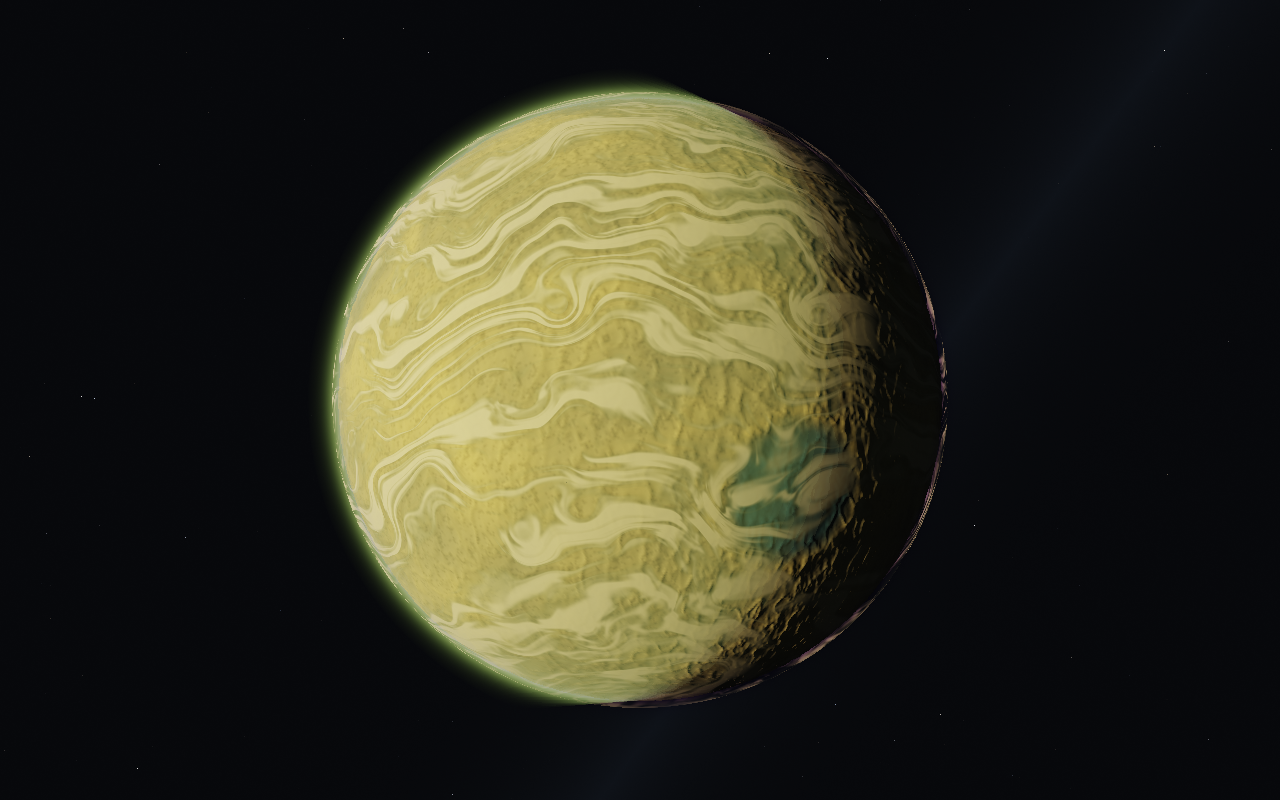
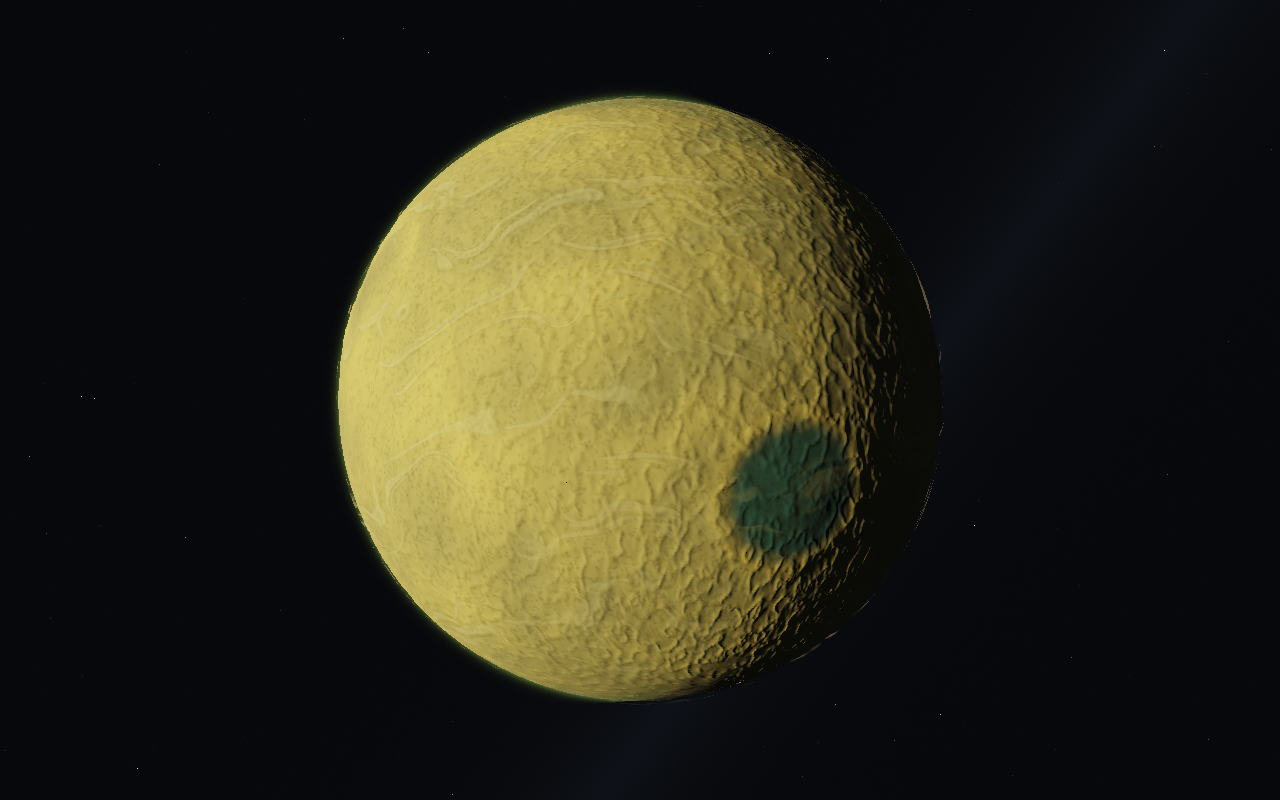
Thin Miasma's toxic atmosphere and add Claude's alien flora

diff --git a/src/miasma-flora.js b/src/miasma-flora.js
@@ -1,0 +1,98 @@
+import * as THREE from 'three';
+import { GLTFLoader } from 'three/addons/loaders/GLTFLoader.js';
+import { MIASMA_POSITION, MIASMA_RADIUS, miasmaSurface } from './miasma-world.js';
+import { scatterMinerals } from './mineral-fragments.js';
+
+const CENTER=new THREE.Vector3(...MIASMA_POSITION),UP=new THREE.Vector3(0,1,0);
+export const FLORA_SPECIES=Object.freeze(['alien-tree-bulb','alien-tree-spire','giant-mushroom-cluster','puffball-plant']);
+const HEIGHTS=[12,18,4,.9],RANGES=[140,140,105,48],CAPACITIES=[128,96,192,96];
+const hash=(x,y,s)=>{let h=Math.imul(x,374761393)^Math.imul(y,668265263)^s;h=Math.imul(h^(h>>>13),1274126177);return ((h^(h>>>16))>>>0)/4294967295;};
+/** Canonical, stable colonies: large silhouettes among mineral-rich ground, with
+ * smaller fungi and pods between them. Ship clearance includes the model canopy. */
+export function floraCandidates(up,shipLocal=null){
+  const candidates=[];
+  scatterMinerals(up,(d,col,row,a,b)=>{
+    const surface=miasmaSurface(...d.toArray()),colony=.5+.5*Math.sin(d.x*MIASMA_RADIUS/85+Math.sin(d.z*MIASMA_RADIUS/110))*Math.sin(d.y*MIASMA_RADIUS/97);
+    if(hash(col,row,6101)>.28+colony*.6)return;
+    const pick=hash(col,row,7311),species=pick<.18?0:pick<.30?1:pick<.64?2:3;
+    const size=(species<2?.55:.75)+hash(col,row,2713)*.5,point=d.clone().multiplyScalar(MIASMA_RADIUS+surface.height);
+    if(d.distanceTo(up)*MIASMA_RADIUS>RANGES[species]+8)return;
+    if(shipLocal&&point.distanceTo(shipLocal)<22+(species<2?6:2)*size)return;
+    const east=new THREE.Vector3().crossVectors(Math.abs(d.y)<.9?UP:new THREE.Vector3(1,0,0),d).normalize(),north=new THREE.Vector3().crossVectors(d,east);
+    const height=(axis,sign)=>miasmaSurface(...d.clone().addScaledVector(axis,sign/MIASMA_RADIUS).normalize().toArray()).height;
+    const dx=(height(east,1)-height(east,-1))*.5,dy=(height(north,1)-height(north,-1))*.5;
+    if(Math.hypot(dx,dy)>(species<2?.18:.4))return;
+    const normal=d.clone().addScaledVector(east,-dx).addScaledVector(north,-dy).normalize();
+    candidates.push({id:`${col}/${row}`,species,size,point:point.toArray(),normal:normal.toArray(),yaw:b*Math.PI*2,phase:a*100});
+  },{spacing:11,range:148,density:.68,seed:9137});
+  return candidates;
+}
+function animateMaterial(material,eye,time,height,range,depth=false){
+  material.onBeforeCompile=shader=>{
+    Object.assign(shader.uniforms,{floraEye:eye,floraTime:time});
+    shader.vertexShader=shader.vertexShader.replace('#include <common>',`#include <common>
+      uniform vec3 floraEye;uniform float floraTime;attribute float floraPhase;varying float floraRange;`)
+      .replace('#include <begin_vertex>',`#include <begin_vertex>
+        floraRange=length(instanceMatrix[3].xyz-floraEye);
+        float bend=pow(clamp(position.y/${height.toFixed(1)},0.0,1.0),2.0);
+        transformed.x+=sin(floraTime*.85+floraPhase+position.y*.35)*bend*${(height*.012).toFixed(4)};
+        transformed.z+=cos(floraTime*.63+floraPhase)*bend*${(height*.008).toFixed(4)};`);
+    shader.fragmentShader=shader.fragmentShader.replace('#include <common>','#include <common>\nvarying float floraRange;')
+      .replace('#include <alphatest_fragment>',`#include <alphatest_fragment>
+        float coverage=1.0-smoothstep(${(range*.76).toFixed(1)},${range.toFixed(1)},floraRange);
+        if(coverage<=fract(52.9829189*fract(dot(gl_FragCoord.xy,vec2(.06711056,.00583715)))))discard;`);
+    if(!depth)shader.fragmentShader=shader.fragmentShader.replace('#include <emissivemap_fragment>',`#include <emissivemap_fragment>
+      // Preserve the authored textures; only their mint-green details luminesce.
+      float mint=smoothstep(.015,.12,diffuseColor.g-max(diffuseColor.r*.94,diffuseColor.b*.94));
+      totalEmissiveRadiance+=diffuseColor.rgb*mint*.32;`);
+  };
+  material.customProgramCacheKey=()=>`miasma-flora-${height}-${range}-${depth}-v1`;
+}
+export class MiasmaFlora {
+  constructor(parent){
+    this.group=new THREE.Group();this.group.name='Miasma alien flora';this.group.visible=false;parent.add(this.group);
+    this.eye={value:new THREE.Vector3()};this.time={value:0};this.anchor=new THREE.Vector3();this.last=new THREE.Vector3(Infinity,0,0);
+    this.assets=[];this.loading=false;this.loaded=false;this.errors=[];this.counts=[0,0,0,0];this.disposed=false;this.clearing=null;
+  }
+  async load(){
+    if(this.loading||this.disposed)return;this.loading=true;const loader=new GLTFLoader();
+    await Promise.all(FLORA_SPECIES.map(async(name,species)=>{
+      try{
+        const {scene}=await loader.loadAsync(`/models/props/${name}.glb`);scene.updateMatrixWorld(true);
+        scene.traverse(source=>{if(!source.isMesh)return;
+          const geometry=source.geometry.clone().applyMatrix4(source.matrixWorld),material=source.material.clone();
+          geometry.setAttribute('floraPhase',new THREE.InstancedBufferAttribute(new Float32Array(CAPACITIES[species]),1));
+          material.envMapIntensity=.08;material.roughness=Math.max(.6,material.roughness);animateMaterial(material,this.eye,this.time,HEIGHTS[species],RANGES[species]);
+          const depth=new THREE.MeshDepthMaterial({depthPacking:THREE.RGBADepthPacking,side:material.side});animateMaterial(depth,this.eye,this.time,HEIGHTS[species],RANGES[species],true);
+          const mesh=new THREE.InstancedMesh(geometry,material,CAPACITIES[species]);mesh.count=0;mesh.frustumCulled=false;mesh.castShadow=mesh.receiveShadow=true;mesh.customDepthMaterial=depth;
+          mesh.instanceMatrix.setUsage(THREE.DynamicDrawUsage);mesh.name=name;this.assets.push({species,mesh,depth});
+          if(!this.disposed)this.group.add(mesh);
+          source.geometry.dispose();source.material.dispose();
+        });
+      }catch(error){this.errors.push(`${name}: ${String(error)}`);console.warn(`Miasma flora unavailable: ${name}`,error);}
+    }));
+    this.loaded=true;this.last.set(Infinity,0,0);if(this.disposed)this.release();
+  }
+  update(position,origin,altitude,elapsed,shipPosition){
+    this.time.value=elapsed;this.group.visible=altitude>=0&&altitude<145;
+    if(altitude<2500&&!this.loading)this.load();
+    if(!this.group.visible||!this.loaded)return;
+    const local=position.clone().sub(CENTER),up=local.clone().normalize(),clearing=shipPosition?.toArray().join('/')??null;
+    if(local.distanceToSquared(this.last)>36||clearing!==this.clearing){
+      this.last.copy(local);this.clearing=clearing;this.anchor.copy(up).multiplyScalar(MIASMA_RADIUS+miasmaSurface(...up.toArray()).height);this.counts.fill(0);
+      const q=new THREE.Quaternion(),yaw=new THREE.Quaternion(),scale=new THREE.Vector3(),matrix=new THREE.Matrix4();
+      for(const plant of floraCandidates(up,shipPosition?.clone().sub(CENTER))){
+        const i=this.counts[plant.species];if(i>=CAPACITIES[plant.species])continue;
+        q.setFromUnitVectors(UP,new THREE.Vector3(...plant.normal));q.multiply(yaw.setFromAxisAngle(UP,plant.yaw));scale.setScalar(plant.size);
+        const point=new THREE.Vector3(...plant.point).addScaledVector(new THREE.Vector3(...plant.normal),-.06).sub(this.anchor);matrix.compose(point,q,scale);
+        for(const asset of this.assets)if(asset.species===plant.species){asset.mesh.setMatrixAt(i,matrix);asset.mesh.geometry.attributes.floraPhase.setX(i,plant.phase);}
+        this.counts[plant.species]++;
+      }
+      for(const {species,mesh} of this.assets){mesh.count=this.counts[species];mesh.instanceMatrix.needsUpdate=true;mesh.geometry.attributes.floraPhase.needsUpdate=true;}
+    }
+    this.eye.value.copy(local).sub(this.anchor);this.group.position.copy(this.anchor).add(CENTER).sub(origin);
+  }
+  get state(){return {loaded:this.loaded,visible:this.group.visible,counts:[...this.counts],errors:[...this.errors]};}
+  release(){const textures=new Set();for(const {mesh,depth} of this.assets){for(const value of Object.values(mesh.material))if(value?.isTexture)textures.add(value);mesh.geometry.dispose();mesh.material.dispose();depth.dispose();mesh.dispose();}for(const texture of textures)texture.dispose();this.assets=[];this.group.clear();}
+  dispose(){this.disposed=true;this.release();this.group.removeFromParent();}
+}

diff --git a/src/miasma.js b/src/miasma.js
@@ -1,3 +1,4 @@
+import { MiasmaFlora } from './miasma-flora.js';
 import { MineralFragments } from './mineral-fragments.js';
 import * as THREE from 'three';
 import { PyreTerrain } from './pyre-terrain.js';
@@ -16,7 +17,7 @@ const weather = `
     d.xz=mat2(cos(angle),-sin(angle),sin(angle),cos(angle))*d.xz;
     vec3 p=d*9.0+vec3(mf(d*5.0),mf(d*5.0+19.0),mf(d*5.0-7.0))*3.0;
     float belts=sin(d.y*24.0+mf(d*8.0)*8.0)*.075;
-    return smoothstep(.38,.67,mf(p)+belts);
+    return smoothstep(.53,.74,mf(p)+belts);
   }
 `;
 const mapTexture=(pixels,width,height,space=THREE.NoColorSpace)=>{
@@ -27,7 +28,7 @@ export class Miasma {
   constructor(scene) {
     this.scene=scene;this.worldPosition=new THREE.Vector3(...MIASMA_POSITION);
     this.group=new THREE.Group();this.group.name='Miasma';scene.add(this.group);
-    this.fragments=new MineralFragments(this.group);
+    this.fragments=new MineralFragments(this.group);this.flora=new MiasmaFlora(this.group);
     this.time={value:0};this.mapsReady={value:0};
     this.color={value:mapTexture(new Uint8Array([140,140,50,255]),1,1,THREE.SRGBColorSpace)};
     this.normal={value:mapTexture(new Uint8Array([128,128,255,255]),1,1)};
@@ -50,7 +51,7 @@ export class Miasma {
           float detail=1.0-smoothstep(100.0,2400.0,range);
           float grains=mn(mPoint*3.0),plates=mf(mPoint*.14),cracks=1.0-smoothstep(.015,.07,abs(plates-.48));
           diffuseColor.rgb*=mix(1.0,.73+plates*.45+grains*.22-cracks*.3,detail);
-          diffuseColor.rgb*=1.0-mCloud(d,mTime)*.18;
+          diffuseColor.rgb*=1.0-mCloud(d,mTime)*.07;
           mRelief=(grains*.02+plates*.16-cracks*.04)*detail;`)
         .replace('#include <normal_fragment_maps>',`#include <normal_fragment_maps>
           vec3 q0=dFdx(-vViewPosition),q1=dFdy(-vViewPosition),r1=cross(q1,normal),r2=cross(normal,q0);
@@ -71,18 +72,19 @@ export class Miasma {
         .replace('#include <color_fragment>',`#include <color_fragment>
           float cover=mCloud(normalize(mDirection),mTime);
           diffuseColor.rgb=mix(vec3(.12,.19,.055),vec3(.72,.68,.32),cover);
-          diffuseColor.a=cover*.78;if(diffuseColor.a<.025)discard;`);
+          diffuseColor.a=cover*.22;if(diffuseColor.a<.025)discard;`);
     };
     this.cloudMaterial.customProgramCacheKey=()=> 'miasma-weather-v1';
     this.clouds=new THREE.Mesh(new THREE.SphereGeometry(1,128,80),this.cloudMaterial);
-    this.clouds.name='Miasma sulphur aerosol clouds';this.clouds.scale.setScalar(MIASMA_RADIUS+8500);this.group.add(this.clouds);
+    this.clouds.name='Miasma sulphur aerosol clouds';this.clouds.scale.setScalar(MIASMA_RADIUS+5200);this.group.add(this.clouds);
   }
   update(position,origin,elapsed,shipPosition=null) {
     this.distance=position.distanceTo(this.worldPosition);this.group.visible=this.distance<3e8;this.time.value=elapsed;
     if(!this.group.visible)return;
     this.terrain.update(position,origin);this.fragments.update(position,origin,this.terrain.altitude,shipPosition);this.clouds.position.copy(this.worldPosition).sub(origin);
+    this.flora.update(position,origin,this.terrain.altitude,elapsed,shipPosition);
   }
   get ready(){return this.terrain.ready&&this.mapsReady.value===1;}
-  get state(){return {position:this.worldPosition.toArray(),radius:MIASMA_RADIUS,distance:this.distance,visible:this.group.visible,ready:this.ready,mapsReady:this.mapsReady.value===1,patches:this.terrain.visibleCount,lod:this.terrain.maxLevel,pending:this.terrain.pending,morphing:this.terrain.morphing,error:this.terrain.error,fragments:this.fragments.count,surfaceAltitude:this.terrain.altitude,weatherTime:this.time.value};}
-  dispose(){this.fragments.dispose();this.terrain.dispose();this.color.value.dispose();this.normal.value.dispose();this.clouds.geometry.dispose();this.cloudMaterial.dispose();this.material.dispose();this.scene.remove(this.group);}
+  get state(){return {position:this.worldPosition.toArray(),radius:MIASMA_RADIUS,distance:this.distance,visible:this.group.visible,ready:this.ready,mapsReady:this.mapsReady.value===1,patches:this.terrain.visibleCount,lod:this.terrain.maxLevel,pending:this.terrain.pending,morphing:this.terrain.morphing,error:this.terrain.error,fragments:this.fragments.count,flora:this.flora.state,surfaceAltitude:this.terrain.altitude,weatherTime:this.time.value};}
+  dispose(){this.flora.dispose();this.fragments.dispose();this.terrain.dispose();this.color.value.dispose();this.normal.value.dispose();this.clouds.geometry.dispose();this.cloudMaterial.dispose();this.material.dispose();this.scene.remove(this.group);}
 }

diff --git a/scripts/miasma-flora.spec.js b/scripts/miasma-flora.spec.js
@@ -1,0 +1,33 @@
+import {test,expect} from '@playwright/test';
+import {mkdir,writeFile} from 'node:fs/promises';
+test('thin toxic atmosphere and Claude flora render with stable placement and wind',async({page,browser})=>{
+ const dir='/tmp/star-agent-miasma-flora',errors=[],states=[];await mkdir(dir,{recursive:true});
+ page.on('pageerror',e=>{errors.push(e.message);console.log(e.message);});page.on('console',m=>{if(m.type()==='error'){errors.push(m.text());console.log(m.text().slice(0,2000));}});
+ await page.goto('/?intro=0&debug');await page.waitForFunction(()=>window.starAgent?.state.ready);await page.keyboard.press('Tab');
+ await page.evaluate(()=>{const s=window.starAgent;s.navigation.transitMiasma();s.navigation.enabled=false;s.setRenderScale(.5);});
+ await page.waitForFunction(()=>window.starAgent.state.miasma.ready);
+ async function shot(name){await page.evaluate(async()=>{window.starAgent.setRenderScale(1);for(let i=0;i<4;i++)await new Promise(r=>requestAnimationFrame(r));});await page.screenshot({path:`${dir}/${name}.png`});states.push({name,state:await page.evaluate(()=>window.starAgent.state)});console.log(`Captured ${name}`);expect(errors).toEqual([]);}
+ await shot('thin-orbit');
+ for(const altitude of [5000,5]){
+  await page.evaluate(alt=>{
+   const s=window.starAgent,n=s.navigation,sun=n.sunDirection;
+   const site=s.miasmaSites.map(site=>({...site,score:site.direction.reduce((v,x,i)=>v+x*sun.toArray()[i],0)})).sort((a,b)=>b.score-a.score)[0];
+   n.transitMiasma(alt,site.direction);n.enabled=false;s.setRenderScale(.5);
+   const up=n.normal,east=up.clone().set(0,1,0).cross(up).normalize();
+   n.orientToward(n.position.clone().addScaledVector(east,alt<10?50:alt*.7).addScaledVector(up,alt<10?-2:-alt),up);
+  },altitude);
+  await page.waitForFunction(alt=>{const m=window.starAgent.state.miasma;return m.ready&&Math.abs(m.surfaceAltitude-alt)<.1&&(alt>100||m.flora.loaded);},altitude,{timeout:240000});
+  await shot(altitude===5?'alien-grove':'thin-descent');
+ }
+ const flora=states.at(-1).state.miasma.flora;expect(flora.errors).toEqual([]);expect(flora.counts.filter(c=>c>0).length).toBe(4);expect(flora.counts.reduce((a,b)=>a+b,0)).toBeGreaterThan(15);
+ await page.waitForTimeout(3000);await shot('grove-wind');
+ await page.keyboard.press('Tab');await expect(page.locator('#toxic-warning')).toBeVisible();await shot('grove-hud');
+ // Landing must clear authored trees away from the physical ramp/cabin.
+ await page.evaluate(()=>{const s=window.starAgent;s.navigation.enabled=true;s.setRenderScale(.4);});await page.keyboard.press('l');
+ await page.waitForFunction(()=>window.starAgent.state.mode==='landed',null,{timeout:90000});expect(await page.evaluate(()=>window.starAgent.state.body)).toBe('miasma');
+ await page.waitForFunction(()=>window.starAgent.state.miasma.ready);await shot('landed-grove');
+ await page.evaluate(()=>{const s=window.starAgent;s.navigation.transitPyre();s.navigation.enabled=false;s.setRenderScale(.5);});
+ await page.waitForFunction(()=>window.starAgent.state.pyre.ready);await page.keyboard.press('Tab');await shot('pyre-companion');
+ const backend=await page.evaluate(()=>{const gl=document.querySelector('canvas').getContext('webgl2'),e=gl.getExtension('WEBGL_debug_renderer_info');return gl.getParameter(e.UNMASKED_RENDERER_WEBGL);});
+ await writeFile(`${dir}/environment.json`,JSON.stringify({browser:browser.version(),backend,viewport:[1280,800],errors,states},null,2));expect(errors).toEqual([]);
+});

diff --git a/src/mineral-fragments.js b/src/mineral-fragments.js
@@ -4,8 +4,8 @@ const CENTER=new THREE.Vector3(...MIASMA_POSITION),UP=new THREE.Vector3(0,1,0),T
 const hash=(x,y,salt)=>{let h=Math.imul(x,374761393)^Math.imul(y,668265263)^salt;h=Math.imul(h^(h>>>13),1274126177);return ((h^(h>>>16))>>>0)/4294967295;};
 /** Stable wrapped latitude rows, adapted from the Selene surface-stones work.
  * Candidate placement is independent of camera heading and remains stable on return. */
-export function scatterMinerals(center,visit){
-  const spacing=1.65,range=78,step=spacing/MIASMA_RADIUS,angular=(range+spacing*2)/MIASMA_RADIUS;
+export function scatterMinerals(center,visit,{spacing=1.65,range=78,density=.43,seed=713}={}){
+  const step=spacing/MIASMA_RADIUS,angular=(range+spacing*2)/MIASMA_RADIUS;
   const lat0=Math.asin(THREE.MathUtils.clamp(center.y,-1,1)),lon0=Math.atan2(center.x,center.z);
   for(let row=Math.floor((lat0-angular)/step);row<=Math.ceil((lat0+angular)/step);row++){
     const lat=(row+.5)*step;if(Math.abs(lat)>=Math.PI/2)continue;
@@ -13,9 +13,9 @@ export function scatterMinerals(center,visit){
     const extent=den<1e-13?Math.PI:Math.acos(THREE.MathUtils.clamp((Math.cos(angular)-Math.sin(lat0)*Math.sin(lat))/den,-1,1));
     const reach=Math.ceil(extent/delta)+2,origin=Math.floor((lon0+Math.PI)/delta),count=Math.min(columns,reach*2+1);
     for(let i=0;i<count;i++){
-      const col=((origin-reach+i)%columns+columns)%columns,a=hash(col,row,713),b=hash(col,row,1717);
-      if(a>.43)continue;
-      const lat=(row+.15+a/.43*.7)*step,lon=(col+.15+b*.7)*delta-Math.PI;if(Math.abs(lat)>=Math.PI/2)continue;
+      const col=((origin-reach+i)%columns+columns)%columns,a=hash(col,row,seed),b=hash(col,row,seed+1004);
+      if(a>density)continue;
+      const lat=(row+.15+a/density*.7)*step,lon=(col+.15+b*.7)*delta-Math.PI;if(Math.abs(lat)>=Math.PI/2)continue;
       const d=new THREE.Vector3(Math.cos(lat)*Math.sin(lon),Math.sin(lat),Math.cos(lat)*Math.cos(lon));
       if(d.distanceTo(center)*MIASMA_RADIUS>range)continue;visit(d,col,row,a,b);
     }

diff --git a/tests/miasma.test.js b/tests/miasma.test.js
@@ -72,3 +72,22 @@ test('mineral fragments wrap the seam and remain deterministic near both poles',
   const a=collect();assert.ok(a.length>500&&a.length<5000);assert.equal(new Set(a).size,a.length);assert.deepEqual(a,collect());
  }
 });
+
+test('alien flora follows the canonical floor and leaves the landing area clear',async()=>{
+ const {floraCandidates}=await import('../src/miasma-flora.js');const seen=new Set();
+ for(const site of MIASMA_SITES){
+  const up=new Vector3(...site.direction),plants=floraCandidates(up);assert.deepEqual(plants,floraCandidates(up));assert.ok(plants.length>5);
+  for(const plant of plants)seen.add(plant.species);
+  for(const p of plants){const point=new Vector3(...p.point),d=point.clone().normalize();assert.ok(Math.abs(point.length()-MIASMA_RADIUS-miasmaSurface(...d.toArray()).height)<.00001);}
+  const ship=up.clone().multiplyScalar(MIASMA_RADIUS+miasmaSurface(...up.toArray()).height+3.2);
+  for(const p of floraCandidates(up,ship))assert.ok(new Vector3(...p.point).distanceTo(ship)>22);
+ }
+ assert.equal(seen.size,4);
+});
+
+test('Miasma thin air has low surface density and vanishes smoothly at its upper boundary',async()=>{
+ const {MIASMA_ATMOSPHERE:air}=await import('../src/miasma-world.js');const {environmentAt}=await import('../src/flight-model.js');
+ assert.ok(air.seaLevelDensity<.1);assert.ok(air.height<=20000);
+ const sample=alt=>environmentAt(new Vector3(0,MIASMA_RADIUS+alt,0),MIASMA_RADIUS,air,2.1);
+ assert.equal(sample(air.height).density,0);assert.equal(sample(air.height).regime,'SPACE');assert.ok(sample(air.height-1).density<1e-9);assert.ok(sample(0).density>sample(5000).density);
+});

diff --git a/src/miasma-world.js b/src/miasma-world.js
@@ -18,8 +18,8 @@ export const MIASMA_POSITION = Object.freeze(new Vector3(...PYRE_POSITION)
   .addScaledVector(north, MIASMA_ORBIT_RADIUS * .25)
   .addScaledVector(towardAeon, -MIASMA_ORBIT_RADIUS * Math.sqrt(1 - .58 ** 2 - .25 ** 2)).toArray());
 export const MIASMA_ATMOSPHERE = Object.freeze({
-  height: 32_000, planeHeight: 14_000, seaLevelDensity: .42, scaleHeight: 5200, mieScaleHeight: 3600,
-  betaR: Object.freeze([9e-6, 13e-6, 4e-6]), betaM: Object.freeze([19e-6, 24e-6, 7e-6]), g: .64, gain: 9,
+  height: 18_000, planeHeight: 6500, seaLevelDensity: .065, scaleHeight: 2800, mieScaleHeight: 1400,
+  betaR: Object.freeze([3.0e-6, 4.2e-6, 1.2e-6]), betaM: Object.freeze([8e-6, 10e-6, 2.8e-6]), g: .68, gain: 8,
 });
 export const MIASMA_LIGHTING = Object.freeze({ sky: 0xbfc883, ground: 0x373c20, ambientNight: .018, ambientDay: .2, environment: .04 });
 export const MIASMA_RESOURCE_IDS = Object.freeze(['sulphur', 'silicate', 'copper']);

diff --git a/scripts/miasma-flora.config.js b/scripts/miasma-flora.config.js
@@ -1,0 +1,3 @@
+import base from './miasma.config.js';
+const port=53763;
+export default {...base,testMatch:'miasma-flora.spec.js',outputDir:'/tmp/star-agent-miasma-flora/results',use:{...base.use,baseURL:`http://127.0.0.1:${port}`},webServer:{...base.webServer,command:`npm run build && npm run preview -- --port ${port} --strictPort`,url:`http://127.0.0.1:${port}`}};

diff --git a/docs/miasma.md b/docs/miasma.md
@@ -4,11 +4,13 @@ Pyre now occupies an authored quadrature position: the straight line from Aeon i
 
 The scene freezes this orbital layout for each session. The epoch is the reference of the orbital helper, rather than a changing initial orbital phase. Pyre generator version 3 reflects its volcanoes and lava fields across body longitude to bring Cinder Throne, Nightfire Plain and Furnace Flows onto the Aeon-facing hemisphere. It retains the same canonical geology, resource sampling and terrain refinement.
 
-**Miasma** is a 340 km radius satellite, placed 6,400 km from Pyre's centre on an inclined, frozen orbit. From the Pyre approach it hangs above the dark limb. Select it on the system map (**M**) or use **H → Quick transit → Miasma**. Arrival clearance is 650 km. Its gravity is 2.1 m/s² and its 32 km atmosphere has flight drag and yellow-green aerosol scattering.
+**Miasma** is a 340 km radius satellite, placed 6,400 km from Pyre's centre on an inclined, frozen orbit. From the Pyre approach it hangs above the dark limb. Select it on the system map (**M**) or use **H → Quick transit → Miasma**. Arrival clearance is 650 km. Its gravity is 2.1 m/s² and its thin 18 km atmosphere has low flight drag and a narrow yellow-green aerosol rim. Surface density is 0.065 kg/m³; scattering falls off over 2.8 km (Rayleigh) and 1.4 km (aerosols).
 
 Four named mineral basins cut through sulphur uplands: Vitriol Basin, The Pale Eye, Verdigris Sea and Brimstone Crown. Dark copper-rich deposits, pale rims, ridges, fractures, walking-scale grit and small mineral fragments give the moon a different surface from Pyre. The "seas" are solid mineral deposits. Their surface heights and sulphur/silicate/copper weights drive rendering, collision, landing, walking and the mineral survey.
 
-Animated aerosol bands occupy a cloud shell 8.5 km above the reference sphere. The atmosphere composites from far to near so both worlds can appear in the same view. Rendering retains logarithmic depth; terrain and fragment positions subtract camera/patch origins in CPU doubles before Float32 storage. Workers use the shared Pyre quadtree, canonical surface-map baker and swept terrain contact, with parent fallback, skirts and geometry morphs intact. Fragment scatter is adapted from the earlier Selene surface-stones work and keeps a clear area around a landed ship.
+Sparse animated aerosol wisps occupy a cloud shell 5.2 km above the reference sphere. The atmosphere composites from far to near so both worlds can appear in the same view. Rendering retains logarithmic depth; terrain and fragment positions subtract camera/patch origins in CPU doubles before Float32 storage. Workers use the shared Pyre quadtree, canonical surface-map baker and swept terrain contact, with parent fallback, skirts and geometry morphs intact. Fragment scatter is adapted from the earlier Selene surface-stones work and keeps a clear area around a landed ship.
+
+Claude's existing `alien-tree-bulb`, `alien-tree-spire`, `giant-mushroom-cluster` and `puffball-plant` GLBs now populate mixed surface colonies. These are the local assets listed in `public/models/props/manifest.json`; no remote asset service is used at runtime. Plants load below 2.5 km, use bounded instanced batches, fade over 48–140 m depending on species, sway gently and add subtle luminescence to their mint details. Placement is deterministic on the canonical floor, rejects steep slopes and clears a 22 m area plus canopy radius around a landed ship. Plants are decorative, with no trunk collision or harvesting yet.
 
 Toxic air is identified in the HUD, cockpit and map. Exploration assumes the existing sealed suit: this change does not add suit failures, oxygen consumption or acid damage. Small decorative fragments have no separate collision; the canonical terrain owns the walkable floor. Cloud motion and moon placement are authored visual effects, not atmospheric chemistry or an N-body simulation. No downloads, hosted APIs, dependencies or paid assets were added.
 
@@ -16,9 +18,12 @@ Toxic air is identified in the HUD, cockpit and map. Exploration assumes the exi
 
 - `npm test`: existing world, navigation, Pyre and star checks plus Miasma geography, resource consistency, local vertex precision, swept contact, travel separation and arrival orientation.
 - `npm run test:browser -- -c scripts/miasma.config.js`: actual Chromium rendering from orbit through 5 km, 100 m and 8 m; mineral/toxicity HUD; map selection; continuous Aeon → Pyre → Miasma drive; physical landing, hatch exit, reboarding and launch; Aeon, Selene, Pyre and star visual regression checks.
+- `npm run test:browser -- -c scripts/miasma-flora.config.js`: thinner orbit/descent atmosphere, all four authored species, ground wind, toxic HUD and landing clearance. Flora evidence is in `/tmp/star-agent-miasma-flora`.
 - Artifacts and state reports: `/tmp/star-agent-miasma`. Chromium 151.0.7922.173 / ANGLE Vulkan SwiftShader; full browser/GPU details are recorded in `environment.json`. Screenshots use a 1280×800 viewport at render scale 1; streaming/movement checks use 0.4–0.5. SwiftShader is a rendering correctness check, not a hardware FPS benchmark.
 
 ![Pyre twilight arrival and Miasma](images/miasma/pyre-twilight.png)
 ![Miasma from orbit](images/miasma/miasma-orbit.png)
 ![Mineral fragments and fractured basin floor](images/miasma/miasma-ground.png)
 ![System map](images/miasma/map.png)
+
+![Claude’s alien flora on Miasma](images/miasma/alien-grove.png)

diff --git a/HANDOFF.md b/HANDOFF.md
@@ -449,3 +449,5 @@ impact/re-entry damage branches still need consolidation at integration time.
 ## Pyre twilight and Miasma — feat/pyre-toxic-moon
 
 Based on `feat/stellar-encounter` (PR #36), this adds a landable toxic moon and authored Pyre quadrature: Aeon drive and quick transit arrive with light left/night right at 1,800 km. The new moon's 650 km approach is on the map and in quick transit. Pyre generator v3 reflects named volcano/field longitudes into the visible hemisphere. Miasma shares the canonical quadtree/map/contact machinery, has a third atmosphere slot, animated cloud shell, mineral survey and small decorative fragments. Existing suit sealing is assumed; there is no new toxic-damage or oxygen system. See `docs/miasma.md` for implementation scope and verification commands. Local preview: `http://localhost:53761/?intro=0` (`star-agent-pyre-miasma.service`). Other agents' worktrees remain untouched.
+
+Miasma follow-up: atmosphere reduced to 18 km / 0.065 kg/m³ with sparse 5.2 km wisps. `src/miasma-flora.js` reuses Claude's four existing flora GLBs in deterministic instanced colonies, with gentle wind, mint luminescence and landed-ship clearance. Plants lazy-load below 2.5 km and fade by species at 48–140 m. No new asset downloads or dependencies. Additional browser check: `scripts/miasma-flora.config.js`; evidence `/tmp/star-agent-miasma-flora`. Same preview and PR #39.
